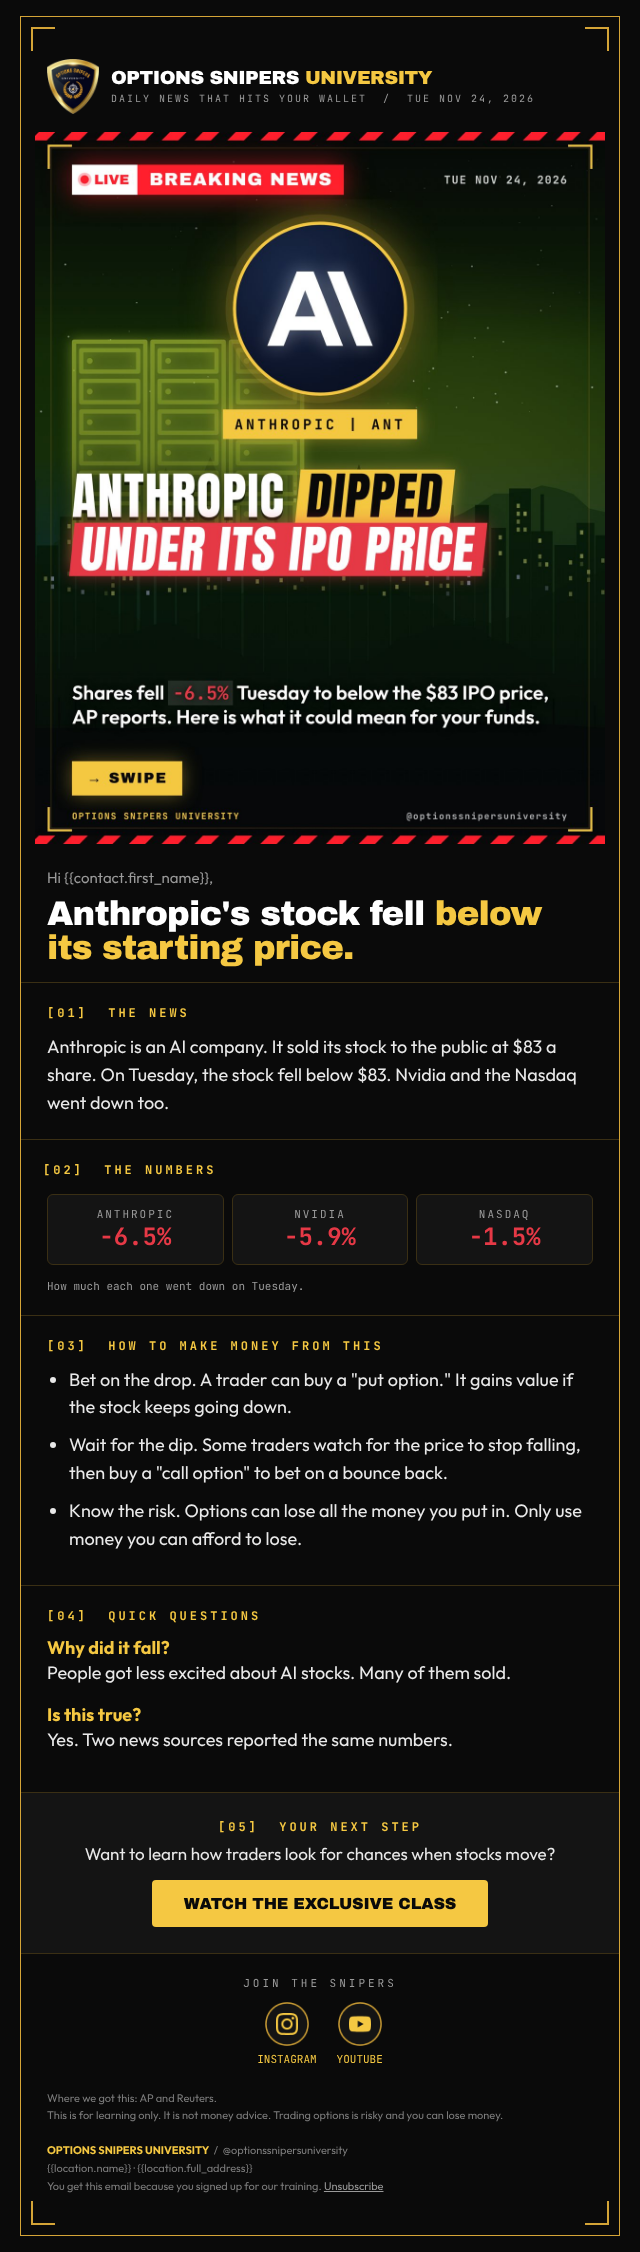
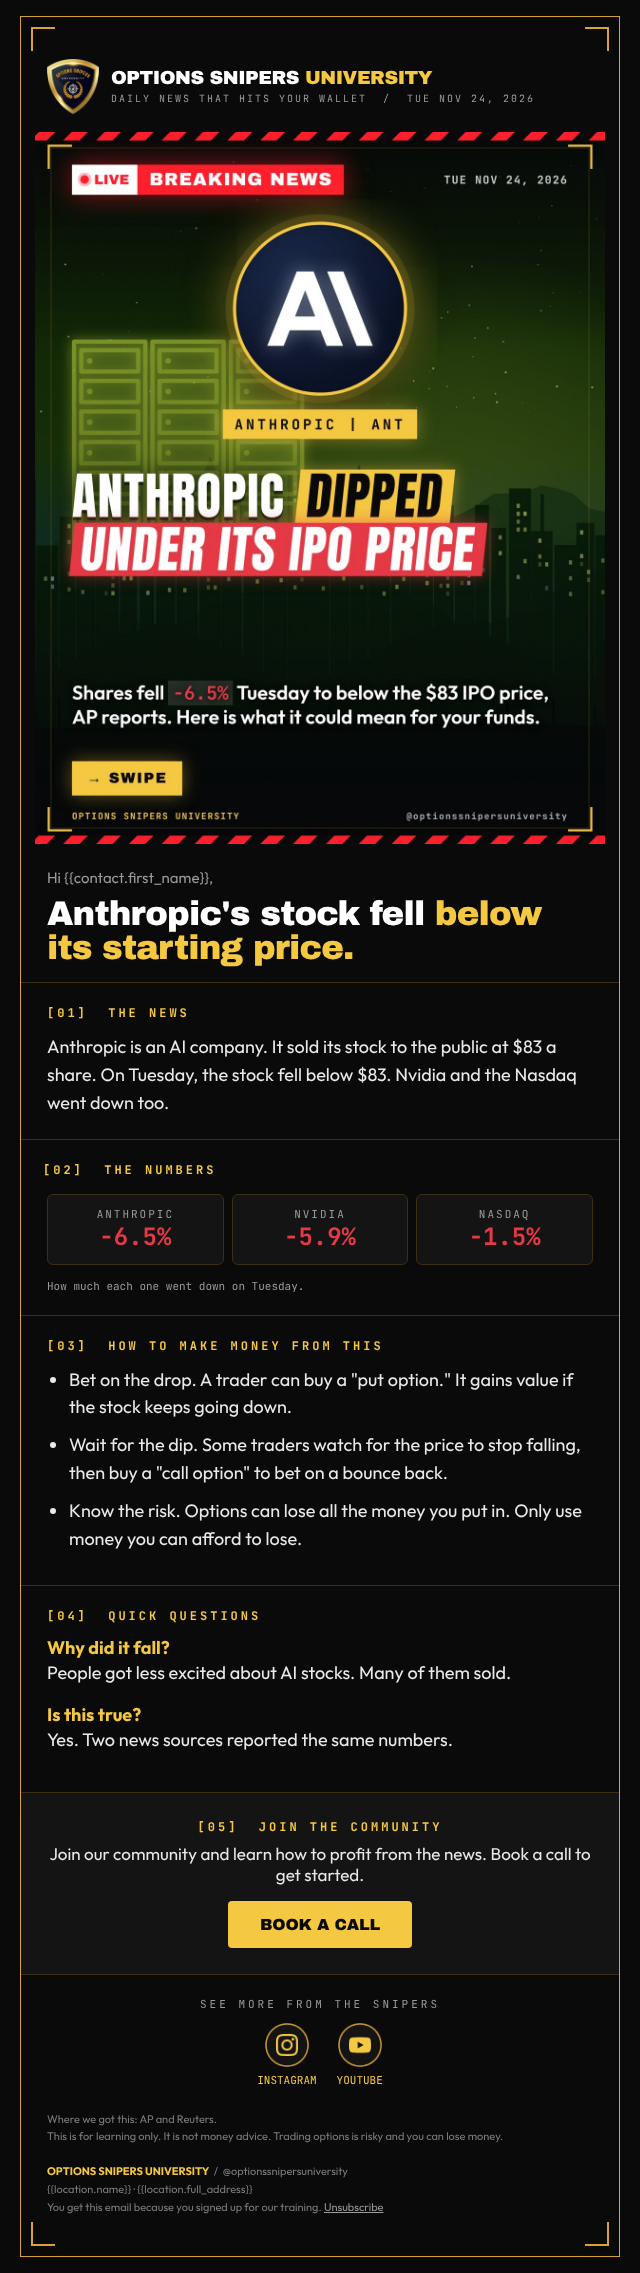
Newsletter CTA: book a call to join the community
Claude-Session: https://claude.ai/code/session_012Jnj24W5oP8eoSDNkGANUC

diff --git a/newsletter/email-template.html b/newsletter/email-template.html
@@ -13,8 +13,8 @@
 <tr><td style="padding:22px 22px;border-top:1px solid #3a2f14;"><div style="font-family:'JetBrains Mono','Courier New',monospace;font-size:12px;font-weight:bold;letter-spacing:3px;color:#F5C842;margin-bottom:12px;">[02] &nbsp;THE NUMBERS</div><table role="presentation" width="100%" cellpadding="0" cellspacing="0"><tr><td width="33%" style="padding:4px;"><div style="background:#141414;border:1px solid #3a2f14;border-radius:6px;padding:12px 6px;text-align:center;"><div style="font-family:'JetBrains Mono','Courier New',monospace;font-size:11px;letter-spacing:2px;color:#9a9a9a;">[[T1_NAME]]</div><div style="font-family:'JetBrains Mono','Courier New',monospace;font-size:24px;font-weight:bold;color:#E63946;">[[T1_MOVE]]</div></div></td><td width="33%" style="padding:4px;"><div style="background:#141414;border:1px solid #3a2f14;border-radius:6px;padding:12px 6px;text-align:center;"><div style="font-family:'JetBrains Mono','Courier New',monospace;font-size:11px;letter-spacing:2px;color:#9a9a9a;">[[T2_NAME]]</div><div style="font-family:'JetBrains Mono','Courier New',monospace;font-size:24px;font-weight:bold;color:#E63946;">[[T2_MOVE]]</div></div></td><td width="33%" style="padding:4px;"><div style="background:#141414;border:1px solid #3a2f14;border-radius:6px;padding:12px 6px;text-align:center;"><div style="font-family:'JetBrains Mono','Courier New',monospace;font-size:11px;letter-spacing:2px;color:#9a9a9a;">[[T3_NAME]]</div><div style="font-family:'JetBrains Mono','Courier New',monospace;font-size:24px;font-weight:bold;color:#E63946;">[[T3_MOVE]]</div></div></td></tr></table><p style="font-family:'JetBrains Mono','Courier New',monospace;font-size:11px;color:#9a9a9a;margin:10px 4px 0;">[[NUMBERS NOTE]]  Green #06D6A0 = up. Red #E63946 = down.</p></td></tr>
 <tr><td style="padding:22px 26px;border-top:1px solid #3a2f14;"><div style="font-family:'JetBrains Mono','Courier New',monospace;font-size:12px;font-weight:bold;letter-spacing:3px;color:#F5C842;margin-bottom:12px;">[03] &nbsp;HOW TO MAKE MONEY FROM THIS</div><ul style="font-family:'Outfit',Arial,Helvetica,sans-serif;font-size:18px;line-height:1.55;color:#E9E9E9;margin:0;padding-left:22px;"><li style="margin-bottom:10px;">[[MONEY_IDEA_1: a way traders can profit, plain words]]</li><li style="margin-bottom:10px;">[[MONEY_IDEA_2: another way]]</li><li style="margin-bottom:10px;">[[MONEY_IDEA_3: the risk to know]]</li></ul></td></tr>
 <tr><td style="padding:22px 26px;border-top:1px solid #3a2f14;"><div style="font-family:'JetBrains Mono','Courier New',monospace;font-size:12px;font-weight:bold;letter-spacing:3px;color:#F5C842;margin-bottom:12px;">[04] &nbsp;QUICK QUESTIONS</div><div style="margin-bottom:16px;"><div style="font-family:'Outfit',Arial,Helvetica,sans-serif;font-size:18px;font-weight:bold;color:#F5C842;">[[Q1]]</div><div style="font-family:'Outfit',Arial,Helvetica,sans-serif;font-size:18px;line-height:1.55;color:#E9E9E9;margin:0;">[[A1: 1-2 short sentences]]</div></div><div style="margin-bottom:16px;"><div style="font-family:'Outfit',Arial,Helvetica,sans-serif;font-size:18px;font-weight:bold;color:#F5C842;">[[Q2]]</div><div style="font-family:'Outfit',Arial,Helvetica,sans-serif;font-size:18px;line-height:1.55;color:#E9E9E9;margin:0;">[[A2: 1-2 short sentences]]</div></div></td></tr>
-<tr><td align="center" style="padding:26px;border-top:1px solid #3a2f14;background:#141414;"><div style="font-family:'JetBrains Mono','Courier New',monospace;font-size:12px;font-weight:bold;letter-spacing:3px;color:#F5C842;margin-bottom:8px;">[05] &nbsp;YOUR NEXT STEP</div><div style="font-family:'Outfit',Arial,Helvetica,sans-serif;font-size:17px;color:#E9E9E9;margin-bottom:16px;">[[CTA_TEXT: one friendly sentence]]</div><a href="[[CTA_URL]]" style="display:inline-block;background:#F5C842;color:#0A0A0A;font-family:'Archivo Black','Arial Black',Arial,sans-serif;font-size:16px;letter-spacing:-0.01em;text-decoration:none;padding:15px 32px;border-radius:4px;">[[BUTTON TEXT]]</a></td></tr>
-<tr><td align="center" style="padding:22px 26px 4px;border-top:1px solid #3a2f14;"><div style="font-family:'JetBrains Mono','Courier New',monospace;font-size:11px;letter-spacing:3px;color:#9a9a9a;margin-bottom:12px;">JOIN THE SNIPERS</div><table role="presentation" cellpadding="0" cellspacing="0"><tr><td style="padding:0 10px;" align="center"><a href="https://www.instagram.com/optionssnipersuniversity" style="text-decoration:none;"><img src="https://raw.githubusercontent.com/optionssnipers/wall-street-awards/main/newsletter/icon-instagram.png" width="44" height="44" alt="Instagram" style="display:block;border:0;margin:0 auto;"><div style="font-family:'JetBrains Mono','Courier New',monospace;font-size:11px;color:#F5C842;margin-top:6px;">INSTAGRAM</div></a></td><td style="padding:0 10px;" align="center"><a href="https://www.youtube.com/channel/UCYdhQjWVViYLeouiSkUQpXQ" style="text-decoration:none;"><img src="https://raw.githubusercontent.com/optionssnipers/wall-street-awards/main/newsletter/icon-youtube.png" width="44" height="44" alt="YouTube" style="display:block;border:0;margin:0 auto;"><div style="font-family:'JetBrains Mono','Courier New',monospace;font-size:11px;color:#F5C842;margin-top:6px;">YOUTUBE</div></a></td></tr></table></td></tr>
+<tr><td align="center" style="padding:26px;border-top:1px solid #3a2f14;background:#141414;"><div style="font-family:'JetBrains Mono','Courier New',monospace;font-size:12px;font-weight:bold;letter-spacing:3px;color:#F5C842;margin-bottom:8px;">[05] &nbsp;JOIN THE COMMUNITY</div><div style="font-family:'Outfit',Arial,Helvetica,sans-serif;font-size:17px;color:#E9E9E9;margin-bottom:16px;">Join our community and learn how to profit from the news. Book a call to get started.</div><a href="[[BOOKING_LINK]]" style="display:inline-block;background:#F5C842;color:#0A0A0A;font-family:'Archivo Black','Arial Black',Arial,sans-serif;font-size:16px;letter-spacing:-0.01em;text-decoration:none;padding:15px 32px;border-radius:4px;">BOOK A CALL</a></td></tr>
+<tr><td align="center" style="padding:22px 26px 4px;border-top:1px solid #3a2f14;"><div style="font-family:'JetBrains Mono','Courier New',monospace;font-size:11px;letter-spacing:3px;color:#9a9a9a;margin-bottom:12px;">SEE MORE FROM THE SNIPERS</div><table role="presentation" cellpadding="0" cellspacing="0"><tr><td style="padding:0 10px;" align="center"><a href="https://www.instagram.com/optionssnipersuniversity" style="text-decoration:none;"><img src="https://raw.githubusercontent.com/optionssnipers/wall-street-awards/main/newsletter/icon-instagram.png" width="44" height="44" alt="Instagram" style="display:block;border:0;margin:0 auto;"><div style="font-family:'JetBrains Mono','Courier New',monospace;font-size:11px;color:#F5C842;margin-top:6px;">INSTAGRAM</div></a></td><td style="padding:0 10px;" align="center"><a href="https://www.youtube.com/channel/UCYdhQjWVViYLeouiSkUQpXQ" style="text-decoration:none;"><img src="https://raw.githubusercontent.com/optionssnipers/wall-street-awards/main/newsletter/icon-youtube.png" width="44" height="44" alt="YouTube" style="display:block;border:0;margin:0 auto;"><div style="font-family:'JetBrains Mono','Courier New',monospace;font-size:11px;color:#F5C842;margin-top:6px;">YOUTUBE</div></a></td></tr></table></td></tr>
 <tr><td style="padding:20px 26px 6px;font-family:'Outfit',Arial,Helvetica,sans-serif;font-size:11px;line-height:1.6;color:#7c7c7c;">Where we got this: [[SOURCES]].<br>This is for learning only. It is not money advice. Trading options is risky and you can lose money.<br><br><strong style="color:#F5C842;">OPTIONS SNIPERS UNIVERSITY</strong> &nbsp;/&nbsp; @optionssnipersuniversity<br>{{location.name}} · {{location.full_address}}<br>You get this email because you signed up for our training. <a href="{{unsubscribe_link}}" style="color:#9a9a9a;">Unsubscribe</a></td></tr>
 <tr><td style="padding:0 10px 10px;"><table role="presentation" width="100%" cellpadding="0" cellspacing="0"><tr><td width="22" height="22" style="border-bottom:2px solid #D4A437;border-left:2px solid #D4A437;font-size:0;line-height:0;">&nbsp;</td><td>&nbsp;</td><td width="22" height="22" style="border-bottom:2px solid #D4A437;border-right:2px solid #D4A437;font-size:0;line-height:0;">&nbsp;</td></tr></table></td></tr>
 </table></td></tr></table></body></html>

diff --git a/newsletter/sample/preview.html b/newsletter/sample/preview.html
@@ -13,8 +13,8 @@
 <tr><td style="padding:22px 22px;border-top:1px solid #3a2f14;"><div style="font-family:'JetBrains Mono','Courier New',monospace;font-size:12px;font-weight:bold;letter-spacing:3px;color:#F5C842;margin-bottom:12px;">[02] &nbsp;THE NUMBERS</div><table role="presentation" width="100%" cellpadding="0" cellspacing="0"><tr><td width="33%" style="padding:4px;"><div style="background:#141414;border:1px solid #3a2f14;border-radius:6px;padding:12px 6px;text-align:center;"><div style="font-family:'JetBrains Mono','Courier New',monospace;font-size:11px;letter-spacing:2px;color:#9a9a9a;">ANTHROPIC</div><div style="font-family:'JetBrains Mono','Courier New',monospace;font-size:24px;font-weight:bold;color:#E63946;">-6.5%</div></div></td><td width="33%" style="padding:4px;"><div style="background:#141414;border:1px solid #3a2f14;border-radius:6px;padding:12px 6px;text-align:center;"><div style="font-family:'JetBrains Mono','Courier New',monospace;font-size:11px;letter-spacing:2px;color:#9a9a9a;">NVIDIA</div><div style="font-family:'JetBrains Mono','Courier New',monospace;font-size:24px;font-weight:bold;color:#E63946;">-5.9%</div></div></td><td width="33%" style="padding:4px;"><div style="background:#141414;border:1px solid #3a2f14;border-radius:6px;padding:12px 6px;text-align:center;"><div style="font-family:'JetBrains Mono','Courier New',monospace;font-size:11px;letter-spacing:2px;color:#9a9a9a;">NASDAQ</div><div style="font-family:'JetBrains Mono','Courier New',monospace;font-size:24px;font-weight:bold;color:#E63946;">-1.5%</div></div></td></tr></table><p style="font-family:'JetBrains Mono','Courier New',monospace;font-size:11px;color:#9a9a9a;margin:10px 4px 0;">How much each one went down on Tuesday.</p></td></tr>
 <tr><td style="padding:22px 26px;border-top:1px solid #3a2f14;"><div style="font-family:'JetBrains Mono','Courier New',monospace;font-size:12px;font-weight:bold;letter-spacing:3px;color:#F5C842;margin-bottom:12px;">[03] &nbsp;HOW TO MAKE MONEY FROM THIS</div><ul style="font-family:'Outfit',Arial,Helvetica,sans-serif;font-size:18px;line-height:1.55;color:#E9E9E9;margin:0;padding-left:22px;"><li style="margin-bottom:10px;">Bet on the drop. A trader can buy a "put option." It gains value if the stock keeps going down.</li><li style="margin-bottom:10px;">Wait for the dip. Some traders watch for the price to stop falling, then buy a "call option" to bet on a bounce back.</li><li style="margin-bottom:10px;">Know the risk. Options can lose all the money you put in. Only use money you can afford to lose.</li></ul></td></tr>
 <tr><td style="padding:22px 26px;border-top:1px solid #3a2f14;"><div style="font-family:'JetBrains Mono','Courier New',monospace;font-size:12px;font-weight:bold;letter-spacing:3px;color:#F5C842;margin-bottom:12px;">[04] &nbsp;QUICK QUESTIONS</div><div style="margin-bottom:16px;"><div style="font-family:'Outfit',Arial,Helvetica,sans-serif;font-size:18px;font-weight:bold;color:#F5C842;">Why did it fall?</div><div style="font-family:'Outfit',Arial,Helvetica,sans-serif;font-size:18px;line-height:1.55;color:#E9E9E9;margin:0;">People got less excited about AI stocks. Many of them sold.</div></div><div style="margin-bottom:16px;"><div style="font-family:'Outfit',Arial,Helvetica,sans-serif;font-size:18px;font-weight:bold;color:#F5C842;">Is this true?</div><div style="font-family:'Outfit',Arial,Helvetica,sans-serif;font-size:18px;line-height:1.55;color:#E9E9E9;margin:0;">Yes. Two news sources reported the same numbers.</div></div></td></tr>
-<tr><td align="center" style="padding:26px;border-top:1px solid #3a2f14;background:#141414;"><div style="font-family:'JetBrains Mono','Courier New',monospace;font-size:12px;font-weight:bold;letter-spacing:3px;color:#F5C842;margin-bottom:8px;">[05] &nbsp;YOUR NEXT STEP</div><div style="font-family:'Outfit',Arial,Helvetica,sans-serif;font-size:17px;color:#E9E9E9;margin-bottom:16px;">Want to learn how traders look for chances when stocks move?</div><a href="https://example.com" style="display:inline-block;background:#F5C842;color:#0A0A0A;font-family:'Archivo Black','Arial Black',Arial,sans-serif;font-size:16px;letter-spacing:-0.01em;text-decoration:none;padding:15px 32px;border-radius:4px;">WATCH THE EXCLUSIVE CLASS</a></td></tr>
-<tr><td align="center" style="padding:22px 26px 4px;border-top:1px solid #3a2f14;"><div style="font-family:'JetBrains Mono','Courier New',monospace;font-size:11px;letter-spacing:3px;color:#9a9a9a;margin-bottom:12px;">JOIN THE SNIPERS</div><table role="presentation" cellpadding="0" cellspacing="0"><tr><td style="padding:0 10px;" align="center"><a href="https://www.instagram.com/optionssnipersuniversity" style="text-decoration:none;"><img src="../icon-instagram.png" width="44" height="44" alt="Instagram" style="display:block;border:0;margin:0 auto;"><div style="font-family:'JetBrains Mono','Courier New',monospace;font-size:11px;color:#F5C842;margin-top:6px;">INSTAGRAM</div></a></td><td style="padding:0 10px;" align="center"><a href="https://www.youtube.com/channel/UCYdhQjWVViYLeouiSkUQpXQ" style="text-decoration:none;"><img src="../icon-youtube.png" width="44" height="44" alt="YouTube" style="display:block;border:0;margin:0 auto;"><div style="font-family:'JetBrains Mono','Courier New',monospace;font-size:11px;color:#F5C842;margin-top:6px;">YOUTUBE</div></a></td></tr></table></td></tr>
+<tr><td align="center" style="padding:26px;border-top:1px solid #3a2f14;background:#141414;"><div style="font-family:'JetBrains Mono','Courier New',monospace;font-size:12px;font-weight:bold;letter-spacing:3px;color:#F5C842;margin-bottom:8px;">[05] &nbsp;JOIN THE COMMUNITY</div><div style="font-family:'Outfit',Arial,Helvetica,sans-serif;font-size:17px;color:#E9E9E9;margin-bottom:16px;">Join our community and learn how to profit from the news. Book a call to get started.</div><a href="https://example.com/book" style="display:inline-block;background:#F5C842;color:#0A0A0A;font-family:'Archivo Black','Arial Black',Arial,sans-serif;font-size:16px;letter-spacing:-0.01em;text-decoration:none;padding:15px 32px;border-radius:4px;">BOOK A CALL</a></td></tr>
+<tr><td align="center" style="padding:22px 26px 4px;border-top:1px solid #3a2f14;"><div style="font-family:'JetBrains Mono','Courier New',monospace;font-size:11px;letter-spacing:3px;color:#9a9a9a;margin-bottom:12px;">SEE MORE FROM THE SNIPERS</div><table role="presentation" cellpadding="0" cellspacing="0"><tr><td style="padding:0 10px;" align="center"><a href="https://www.instagram.com/optionssnipersuniversity" style="text-decoration:none;"><img src="../icon-instagram.png" width="44" height="44" alt="Instagram" style="display:block;border:0;margin:0 auto;"><div style="font-family:'JetBrains Mono','Courier New',monospace;font-size:11px;color:#F5C842;margin-top:6px;">INSTAGRAM</div></a></td><td style="padding:0 10px;" align="center"><a href="https://www.youtube.com/channel/UCYdhQjWVViYLeouiSkUQpXQ" style="text-decoration:none;"><img src="../icon-youtube.png" width="44" height="44" alt="YouTube" style="display:block;border:0;margin:0 auto;"><div style="font-family:'JetBrains Mono','Courier New',monospace;font-size:11px;color:#F5C842;margin-top:6px;">YOUTUBE</div></a></td></tr></table></td></tr>
 <tr><td style="padding:20px 26px 6px;font-family:'Outfit',Arial,Helvetica,sans-serif;font-size:11px;line-height:1.6;color:#7c7c7c;">Where we got this: AP and Reuters.<br>This is for learning only. It is not money advice. Trading options is risky and you can lose money.<br><br><strong style="color:#F5C842;">OPTIONS SNIPERS UNIVERSITY</strong> &nbsp;/&nbsp; @optionssnipersuniversity<br>{{location.name}} · {{location.full_address}}<br>You get this email because you signed up for our training. <a href="{{unsubscribe_link}}" style="color:#9a9a9a;">Unsubscribe</a></td></tr>
 <tr><td style="padding:0 10px 10px;"><table role="presentation" width="100%" cellpadding="0" cellspacing="0"><tr><td width="22" height="22" style="border-bottom:2px solid #D4A437;border-left:2px solid #D4A437;font-size:0;line-height:0;">&nbsp;</td><td>&nbsp;</td><td width="22" height="22" style="border-bottom:2px solid #D4A437;border-right:2px solid #D4A437;font-size:0;line-height:0;">&nbsp;</td></tr></table></td></tr>
 </table></td></tr></table></body></html>

diff --git a/newsletter/build.py b/newsletter/build.py
@@ -22,8 +22,8 @@ def page(v,logo,cover,fonts='',ICON=''):
     r.append(sec('03','HOW TO MAKE MONEY FROM THIS',f'<ul style="{p}padding-left:22px;">{li}</ul>'))
     qa=''.join(f'<div style="margin-bottom:16px;"><div style="{B}font-size:18px;font-weight:bold;color:{GOLD};">{q}</div><div style="{p}">{a}</div></div>' for q,a in v['QA'])
     r.append(sec('04','QUICK QUESTIONS',qa))
-    r.append(f'''<tr><td align="center" style="padding:26px;border-top:1px solid {LINE};background:{PANEL};"><div style="{M}font-size:12px;font-weight:bold;letter-spacing:3px;color:{GOLD};margin-bottom:8px;">[05] &nbsp;YOUR NEXT STEP</div><div style="{B}font-size:17px;color:{TXT};margin-bottom:16px;">{v['CTATEXT']}</div><a href="{v['CTAURL']}" style="display:inline-block;background:{GOLD};color:#0A0A0A;{H}font-size:16px;letter-spacing:-0.01em;text-decoration:none;padding:15px 32px;border-radius:4px;">{v['CTABTN']}</a></td></tr>''')
-    r.append(f'''<tr><td align="center" style="padding:22px 26px 4px;border-top:1px solid {LINE};"><div style="{M}font-size:11px;letter-spacing:3px;color:{MUTED};margin-bottom:12px;">JOIN THE SNIPERS</div><table role="presentation" cellpadding="0" cellspacing="0"><tr><td style="padding:0 10px;" align="center"><a href="https://www.instagram.com/optionssnipersuniversity" style="text-decoration:none;"><img src="{ICON}icon-instagram.png" width="44" height="44" alt="Instagram" style="display:block;border:0;margin:0 auto;"><div style="{M}font-size:11px;color:{GOLD};margin-top:6px;">INSTAGRAM</div></a></td><td style="padding:0 10px;" align="center"><a href="https://www.youtube.com/channel/UCYdhQjWVViYLeouiSkUQpXQ" style="text-decoration:none;"><img src="{ICON}icon-youtube.png" width="44" height="44" alt="YouTube" style="display:block;border:0;margin:0 auto;"><div style="{M}font-size:11px;color:{GOLD};margin-top:6px;">YOUTUBE</div></a></td></tr></table></td></tr>''')
+    r.append(f'''<tr><td align="center" style="padding:26px;border-top:1px solid {LINE};background:{PANEL};"><div style="{M}font-size:12px;font-weight:bold;letter-spacing:3px;color:{GOLD};margin-bottom:8px;">[05] &nbsp;JOIN THE COMMUNITY</div><div style="{B}font-size:17px;color:{TXT};margin-bottom:16px;">{v['CTATEXT']}</div><a href="{v['CTAURL']}" style="display:inline-block;background:{GOLD};color:#0A0A0A;{H}font-size:16px;letter-spacing:-0.01em;text-decoration:none;padding:15px 32px;border-radius:4px;">{v['CTABTN']}</a></td></tr>''')
+    r.append(f'''<tr><td align="center" style="padding:22px 26px 4px;border-top:1px solid {LINE};"><div style="{M}font-size:11px;letter-spacing:3px;color:{MUTED};margin-bottom:12px;">SEE MORE FROM THE SNIPERS</div><table role="presentation" cellpadding="0" cellspacing="0"><tr><td style="padding:0 10px;" align="center"><a href="https://www.instagram.com/optionssnipersuniversity" style="text-decoration:none;"><img src="{ICON}icon-instagram.png" width="44" height="44" alt="Instagram" style="display:block;border:0;margin:0 auto;"><div style="{M}font-size:11px;color:{GOLD};margin-top:6px;">INSTAGRAM</div></a></td><td style="padding:0 10px;" align="center"><a href="https://www.youtube.com/channel/UCYdhQjWVViYLeouiSkUQpXQ" style="text-decoration:none;"><img src="{ICON}icon-youtube.png" width="44" height="44" alt="YouTube" style="display:block;border:0;margin:0 auto;"><div style="{M}font-size:11px;color:{GOLD};margin-top:6px;">YOUTUBE</div></a></td></tr></table></td></tr>''')
     r.append(f'''<tr><td style="padding:20px 26px 6px;{B}font-size:11px;line-height:1.6;color:#7c7c7c;">Where we got this: {v['SRC']}.<br>This is for learning only. It is not money advice. Trading options is risky and you can lose money.<br><br><strong style="color:{GOLD};">OPTIONS SNIPERS UNIVERSITY</strong> &nbsp;/&nbsp; @optionssnipersuniversity<br>{{{{location.name}}}} · {{{{location.full_address}}}}<br>You get this email because you signed up for our training. <a href="{{{{unsubscribe_link}}}}" style="color:{MUTED};">Unsubscribe</a></td></tr>''')
     r.append(corners(False).replace('padding:10px 10px 0','padding:0 10px 10px'))
     return f'''<!DOCTYPE html>
@@ -45,12 +45,12 @@ G=f'<span style="color:{GOLD};">'
 ph={'PRE':'[[PREHEADER: one short sentence]]','DATE':'[[DATE]]','ALT':'[[ALT: headline]]','HEADLINE':'[[HEADLINE: short and plain. Wrap the key words in a gold span.]]','NEWS':'[[THE NEWS: 3 short sentences. Who, what, when.]]',
 'T1':('[[T1_NAME]]','[[T1_MOVE]]'),'T2':('[[T2_NAME]]','[[T2_MOVE]]'),'T3':('[[T3_NAME]]','[[T3_MOVE]]'),'NUMNOTE':'[[NUMBERS NOTE]]  Green #06D6A0 = up. Red #E63946 = down.',
 'BUL':['[[MONEY_IDEA_1: a way traders can profit, plain words]]','[[MONEY_IDEA_2: another way]]','[[MONEY_IDEA_3: the risk to know]]'],'QA':[('[[Q1]]','[[A1: 1-2 short sentences]]'),('[[Q2]]','[[A2: 1-2 short sentences]]')],
-'CTATEXT':'[[CTA_TEXT: one friendly sentence]]','CTABTN':'[[BUTTON TEXT]]','CTAURL':'[[CTA_URL]]','SRC':'[[SOURCES]]'}
+'CTATEXT':'Join our community and learn how to profit from the news. Book a call to get started.','CTABTN':'BOOK A CALL','CTAURL':'[[BOOKING_LINK]]','SRC':'[[SOURCES]]'}
 open('email-template.html','w').write(page(ph,'osu-logo.png','[[COVER_URL]]',ICON='https://raw.githubusercontent.com/optionssnipers/wall-street-awards/main/newsletter/'))
 sm={'PRE':'The biggest AI stock sale of the year just dipped. Here is what it means for you.','DATE':'TUE NOV 24, 2026','ALT':'Anthropic fell below its IPO price','HEADLINE':f'Anthropic\'s stock fell {G}below its starting price.</span>',
 'NEWS':'Anthropic is an AI company. It sold its stock to the public at $83 a share. On Tuesday, the stock fell below $83. Nvidia and the Nasdaq went down too.',
 'T1':('ANTHROPIC','-6.5%'),'T2':('NVIDIA','-5.9%'),'T3':('NASDAQ','-1.5%'),'NUMNOTE':'How much each one went down on Tuesday.',
 'BUL':['Bet on the drop. A trader can buy a "put option." It gains value if the stock keeps going down.','Wait for the dip. Some traders watch for the price to stop falling, then buy a "call option" to bet on a bounce back.','Know the risk. Options can lose all the money you put in. Only use money you can afford to lose.'],
 'QA':[('Why did it fall?','People got less excited about AI stocks. Many of them sold.'),('Is this true?','Yes. Two news sources reported the same numbers.')],
-'CTATEXT':'Want to learn how traders look for chances when stocks move?','CTABTN':'WATCH THE EXCLUSIVE CLASS','CTAURL':'https://example.com','SRC':'AP and Reuters'}
+'CTATEXT':'Join our community and learn how to profit from the news. Book a call to get started.','CTABTN':'BOOK A CALL','CTAURL':'https://example.com/book','SRC':'AP and Reuters'}
 open('sample/preview.html','w').write(page(sm,'../osu-logo.png','cover.jpg',fontcss(),ICON='../'))
